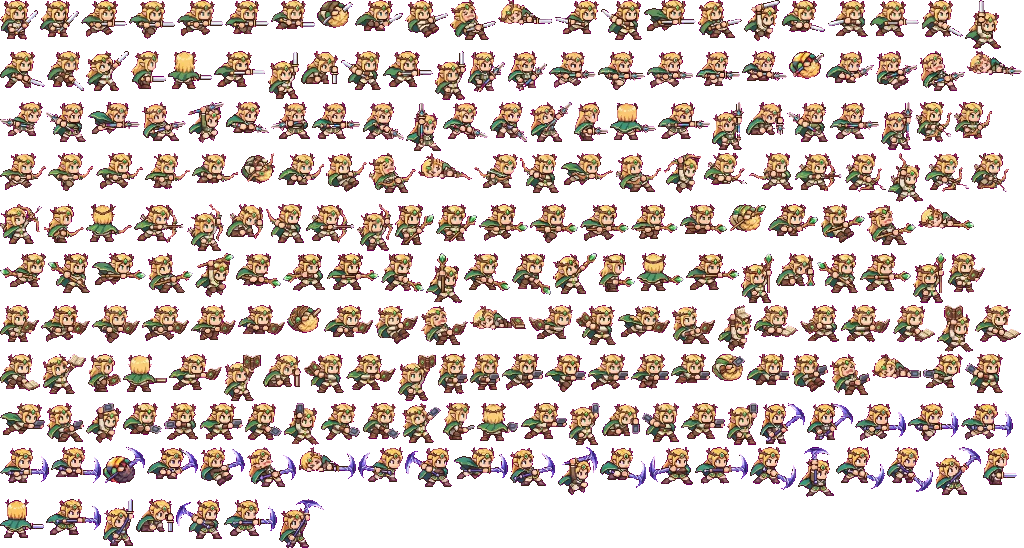
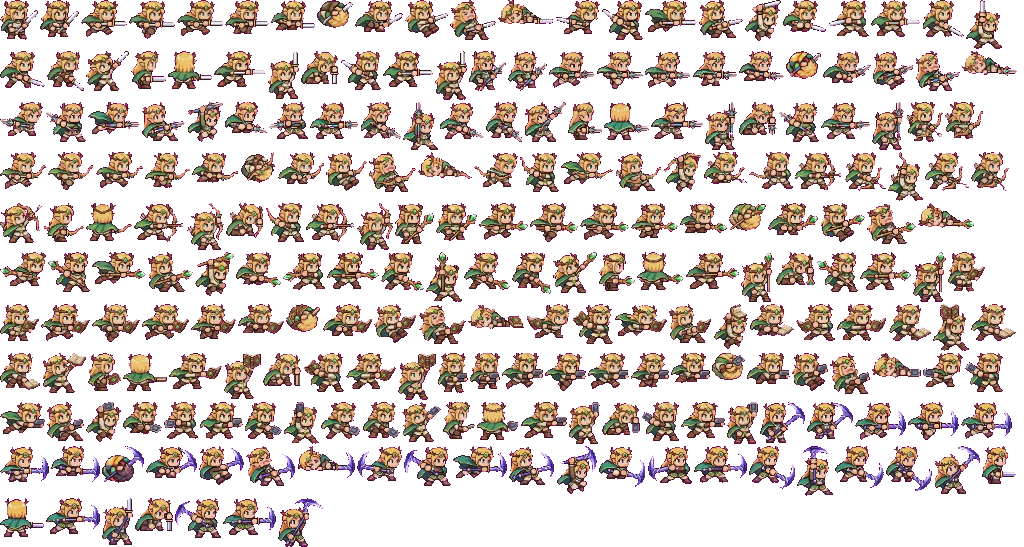
以阿远为基准校准精灵王子亮度描边并生成三角色同落脚线对比图

diff --git a/tools/pixel/build_compare_3heroes.py b/tools/pixel/build_compare_3heroes.py
@@ -1,0 +1,61 @@
+"""Generate 3-hero (Ayuan / Rin / Elf Prince) side-by-side comparison at 3x scale on shared ground line."""
+import json
+from pathlib import Path
+from PIL import Image, ImageDraw
+
+ROOT = Path(__file__).resolve().parents[2]
+
+
+def load_hero(h, w):
+    if h == "m":
+        d = ROOT / f"art/hero{w.title()}Gemini2Cal"
+    elif h == "f":
+        d = ROOT / "art/heroFNew"
+    else:
+        d = ROOT / "art/heroENew"
+    return Image.open(d / "atlas.png").convert("RGBA"), json.loads((d / "atlas.json").read_text(encoding="utf-8"))["f"]
+
+
+def main():
+    u = 3
+    rows = [
+        ("sword",  [("idle", 0), ("run", 0), ("slash", 1)]),
+        ("spear",  [("idle", 0), ("run", 0), ("thrust", 1)]),
+        ("bow",    [("idle", 0), ("run", 0), ("shoot", 1)]),
+        ("staff",  [("idle", 0), ("run", 0), ("point", 1)]),
+        ("tome",   [("idle", 0), ("run", 0), ("cast", 2)]),
+        ("gun",    [("idle", 0), ("run", 0), ("press", 2)]),
+        ("scythe", [("idle", 0), ("run", 0), ("reap", 1)]),
+    ]
+    cw, ch = 370, 165
+    W = 90 + 3 * cw
+    H = 44 + len(rows) * ch
+    img = Image.new("RGBA", (W, H), "#e9dfc1")
+    dr = ImageDraw.Draw(img)
+    dr.text((12, 10), "3-Hero Calibration: Ayuan (left) / Rin (mid) / Elf Prince (right) - 3x scale, shared ground line", fill="#38281d")
+
+    for ri, (w, poses) in enumerate(rows):
+        y_base = 44 + ri * ch + 142
+        dr.line([(0, y_base), (W, y_base)], fill=(200, 60, 60, 180), width=1)
+        dr.text((12, 44 + ri * ch + 68), w.upper(), fill="#38281d")
+        sets = {h: load_hero(h, w) for h in ("m", "f", "e")}
+        for ci, (act, fi) in enumerate(poses):
+            x0 = 90 + ci * cw
+            dr.text((x0 + 140, 44 + ri * ch + 6), f"{act}{fi}", fill="#38281d")
+            for hi, h in enumerate(("m", "f", "e")):
+                at, jf = sets[h]
+                arr = jf.get(f"hero:{w}.{act}")
+                if not arr:
+                    continue
+                sx, sy, sw, sh, ax, ay = arr[min(fi, len(arr) - 1)]
+                crop = at.crop((sx, sy, sx + sw, sy + sh)).resize((sw * u, sh * u), Image.Resampling.NEAREST)
+                cx = x0 + 62 + hi * 120
+                img.alpha_composite(crop, (int(cx - ax * u), int(y_base - ay * u)))
+
+    out = ROOT / "art/compare_3heroes.png"
+    img.save(out)
+    print(f"Saved {out} ({img.size})")
+
+
+if __name__ == "__main__":
+    main()

diff --git a/tools/pixel/build_heroE_new.py b/tools/pixel/build_heroE_new.py
@@ -94,13 +94,20 @@ def cut_sheet(path):
             sizes[0] = 0
             m = (sizes >= 4)[clab]
 
-        # Gentle magenta despill on dark outline pixels only (keep purple scythe intact!)
+        # Gentle magenta despill + match Ayuan's warm dark-brown outline & highlight ceiling (~200)
         edge2 = m & ~ndimage.binary_erosion(m, structure=np.ones((3, 3)), border_value=0)
         sr, sg, sb = sub.astype(int).transpose(2, 0, 1)
         dark_mag = edge2 & (sr < 105) & (sg < 65) & (sb < 105) & (sb > sg + 18) & (sr > sg + 18)
-        sub[dark_mag, 0] = 58
-        sub[dark_mag, 1] = 34
-        sub[dark_mag, 2] = 24
+        sub[dark_mag, 0] = 52
+        sub[dark_mag, 1] = 30
+        sub[dark_mag, 2] = 22
+        # Soften overly bright non-metal character highlights (~215 -> ~200) to match Ayuan's luminance
+        lum = 0.299 * sr + 0.587 * sg + 0.114 * sb
+        warm_bright = m & (lum > 185) & ((sr - sb) > 18)  # blonde hair / warm tunic, excluding cool silver/emerald
+        sub[warm_bright] = np.clip(np.rint(sub[warm_bright].astype(float) * 0.94), 0, 255).astype(np.uint8)
+        # Deepen dark brown outlines slightly to match Ayuan's crisp outline contrast
+        dark_out = m & (sr < 88) & (sg < 62) & (sb < 62) & (sr > sg)
+        sub[dark_out] = np.clip(np.rint(sub[dark_out].astype(float) * 0.85), 0, 255).astype(np.uint8)
 
         rgba = np.dstack([sub, (m.astype(np.uint8) * 255)])
         fr = Image.fromarray(rgba)

diff --git a/docs/TODO.md b/docs/TODO.md
@@ -319,3 +319,4 @@
 - 接入剑、枪、弓、法杖、圣典、掌机、镰刀全 7 套 33 帧图集至 `art/heroENew/atlas.{png,json}`（保留旧 `art/heroE/` 用于对比），生成脚本 `tools/pixel/build_heroE_new.py` 及 3x 新旧对比图 `art/heroENew/compare.png`。
 - 校准基准：每套单一固定等比缩放（`0.5036`～`0.5141`），`idle0` 身高与旧版一致（40–41px），清理洋红残边与杂点，按支撑脚/重心定锚点。
 - 已接入 `js/sprites.js`（`SETS.heroENew`，`drawHero` 支持精灵王子原生使用 `gun`/`tome`/`scythe`）、`demo/intro.html`（`h=e`）、`demo/palace.html`、`js/ui.js` 及 `tools/frames.html`。
+- 三角色对标校准与实测（2026-11-28）：以阿远（`Gemini2Cal`，`idle0` 身高 39–40px、亮部约 200、描边约 29）为基准，微调精灵王子高光（×0.94 对齐约 200）与暗棕描边（×0.85），生成三角色 3x 同落脚线对比图 `art/compare_3heroes.png`（`tools/pixel/build_compare_3heroes.py`）。浏览器基础实测通过（0 控制台报错）：选人页小凛与精灵王子切剑/掌机正常显示且仅展示当前人物（修复精灵王子选掌机头像空白），精灵王子持剑进第 1 站实测走停、翻滚、挥剑与打箱子均无大小跳变/漂移/裁断/空白帧。
